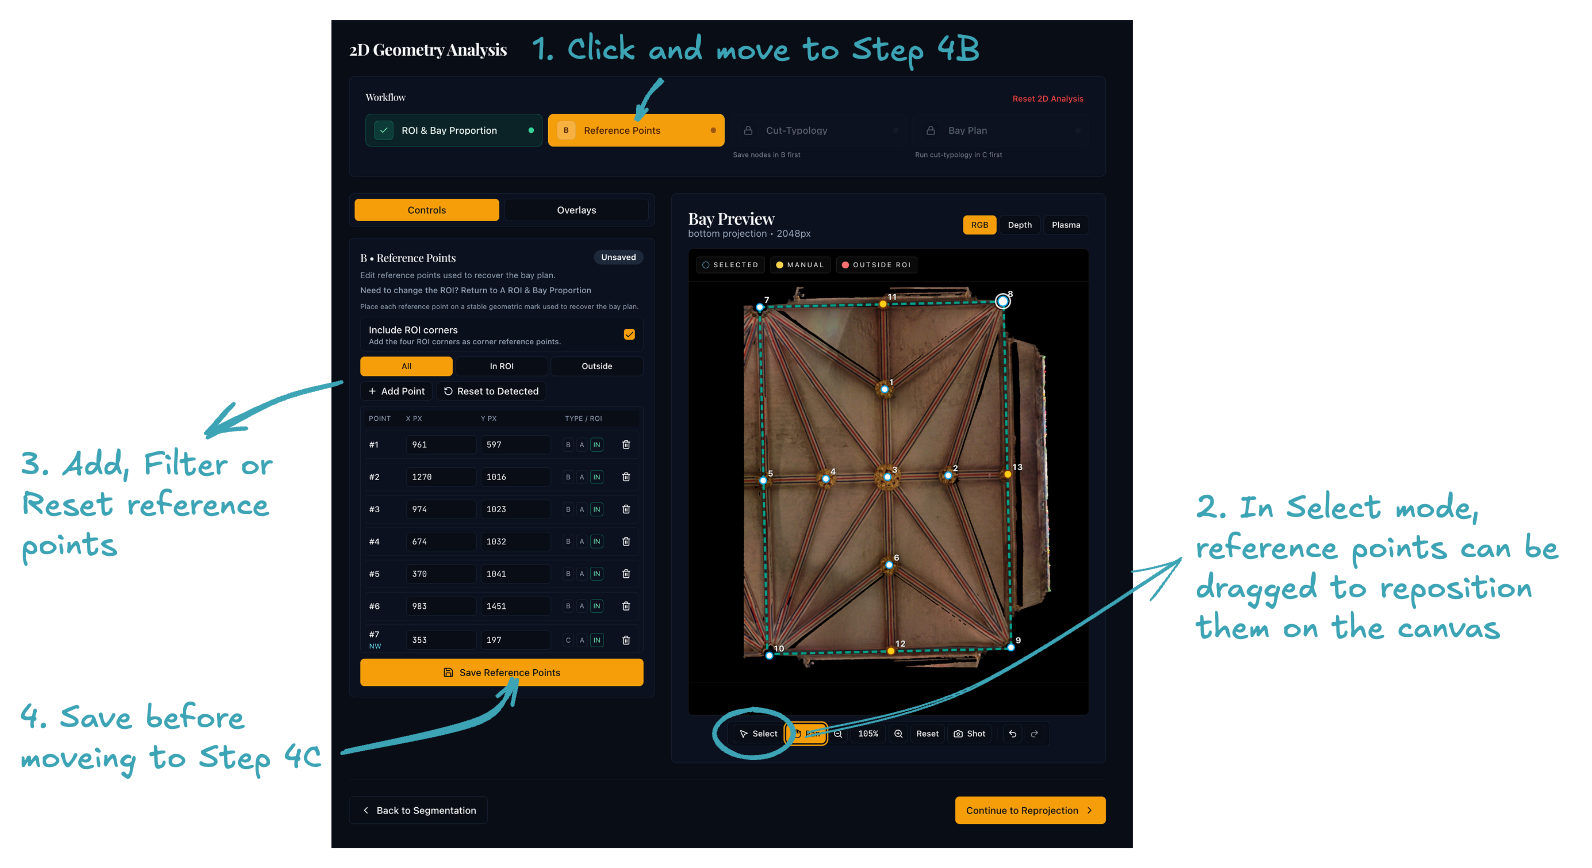
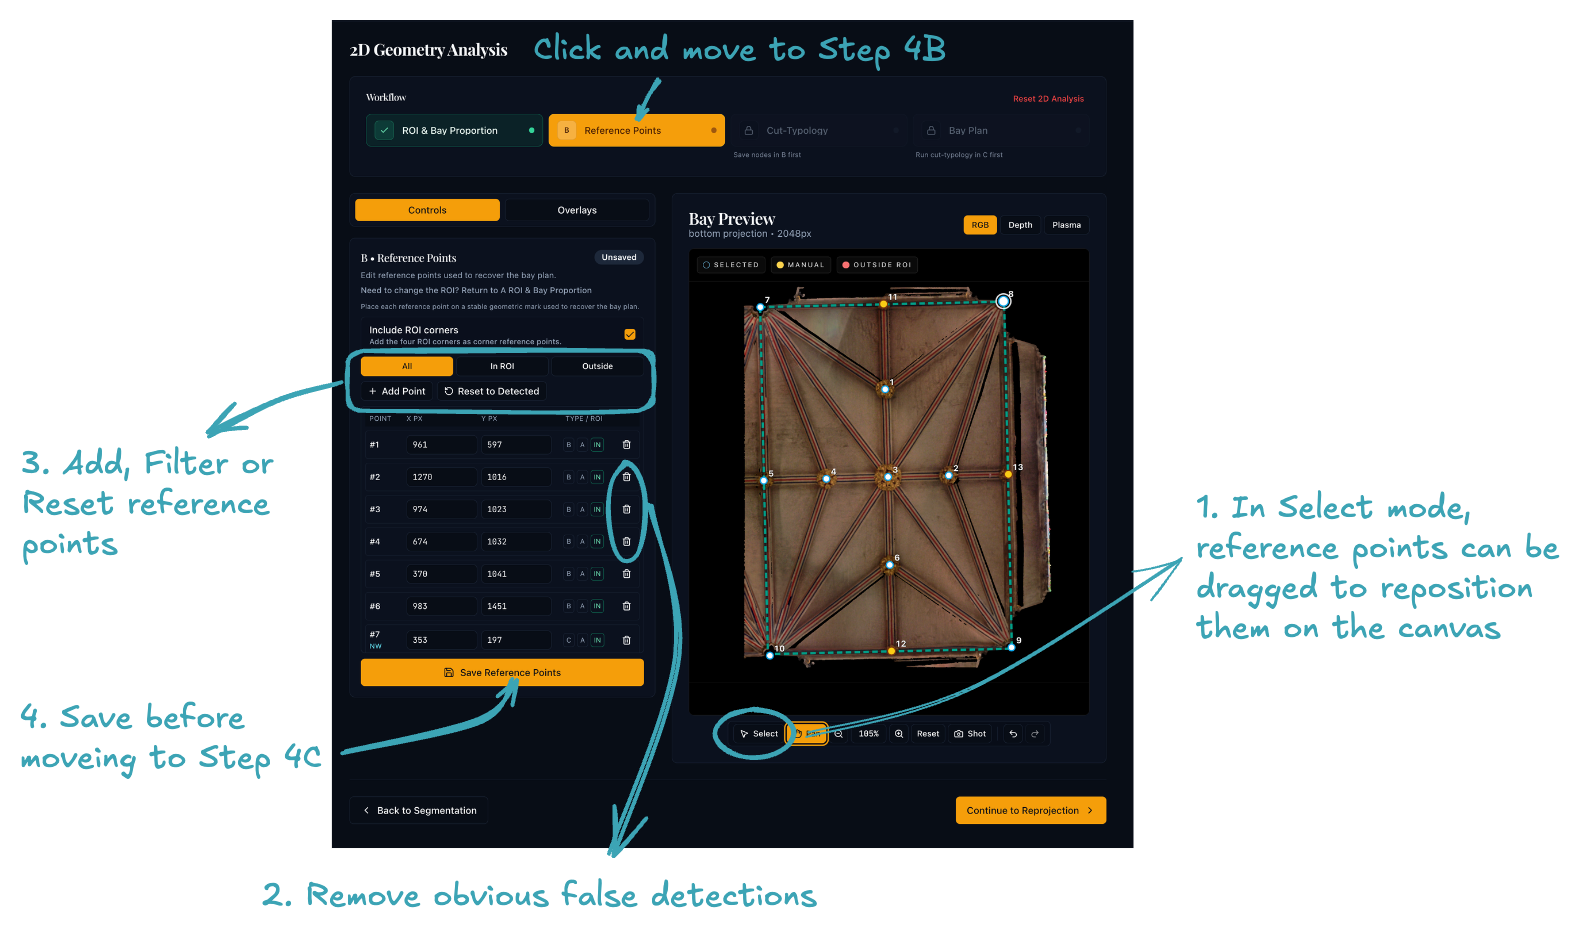
documentation-install&step4

diff --git a/docs/workflow/step-4/bay-plan-reconstruction.md b/docs/workflow/step-4/bay-plan-reconstruction.md
@@ -2,56 +2,15 @@
 
 ## Purpose
 
-This final Step 4 sub-stage reconstructs the **bay plan** from the ROI, reference points, matching results, and segmentation masks. The bay plan is the main 2D output that later gets reprojected into 3D.
+This final Step 4 sub-stage reconstructs the **bay plan** from the ROI, reference points, matching results, and segmentation masks.
 
-## What the application does
+## Workflow
 
-Reconstruction proceeds through a multi-phase pipeline:
+![Bay-Plan Reconstruction: workflow stepper (Bay-Plan active); left panel with reconstruction settings and score breakdown; canvas showing the reconstructed node-and-edge graph over the projection image.](../../images/step-4/step4d-bay-plan.png){ width="800" .center }
 
-### 1. Load reference rows
+### 1. Review the reconstruction settings
 
-The backend loads the saved node points from sub-stage 4B. Where a boss was successfully matched in sub-stage 4C, its **ideal** template position is used in preference to the raw centroid. Corner anchors are always included.
-
-### 2. Load the rib mask
-
-A grouped rib-segmentation mask is loaded from the project's segmentation data. This mask acts as evidence for whether a proposed edge actually follows visible rib material.
-
-### 3. Generate candidate edges
-
-Two reconstruction modes are available:
-
-**Angular-nearest candidates** (default)
-:   For each node, the algorithm looks for nearby neighbours in distinct directions. Each possible edge is then scored by how well a narrow corridor between the two nodes overlaps the rib mask.[^1]
-
-**Delaunay comparison**
-:   An alternative mode that builds a constrained Delaunay-style graph from the same node set.[^2] This is useful as a comparison view or when rib-mask evidence is weak.
-
-Both methods can contribute to the final candidate set, and the app also preserves key boundary connections.
-
-### 4. Select the candidate graph
-
-A greedy global selection resolves the candidate set into a final graph:
-
-1. **Boundary edges first** — mandatory boundary edges are added unconditionally.
-2. **Greedy pass** — remaining candidates are added in descending score order, subject to a configurable maximum node degree and optional planarity enforcement (no crossing edges).
-3. **Degree repair** — any node whose degree falls below the configured minimum receives additional edges from the remaining candidates.
-
-### 5. Score the graph
-
-The final bay plan is scored on four weighted components:
-
-| Component | Weight | Description |
-|-----------|--------|-------------|
-| Edge evidence | 55 % | Mean rib-mask overlap score of non-boundary edges |
-| Boundary coverage | 20 % | Proportion of mandatory boundary edges present |
-| Degree satisfaction | 15 % | Proportion of nodes within the degree bounds |
-| Mutual support | 10 % | Proportion of edges confirmed in both directions |
-
-### 6. Manual edge editing
-
-After the automatic reconstruction, you may add or remove individual edges manually. Manual edits are saved alongside the computed graph.
-
-## Parameters
+Start with the default settings. Tune the advanced parameters below only if the defaults do not produce satisfactory results. 
 
 | Parameter | Description |
 |-----------|-------------|
@@ -64,12 +23,32 @@ After the automatic reconstruction, you may add or remove individual edges manua
 | Boundary tolerance | (u, v) margin for classifying a node as lying on the ROI boundary |
 | Enforce planarity | Whether to reject edges that would cross existing selected edges |
 
-## What you do here
+### 2. Run reconstruction
 
-- Run the reconstruction and inspect the resulting graph on the canvas.
-- If the graph is too dense or too sparse, adjust the settings and run again.
-- Use the layer toggles to compare the graph against the underlying projection and masks.
-- Add missing edges or remove wrong ones manually before you continue.
+The backend loads the saved node points from sub-stage 4B (preferring ideal template positions from 4C where available) and the grouped rib-segmentation mask. It then:
+
+1. **Generates candidate edges** — for each node, finds nearby neighbours in distinct directions and scores each edge by rib-mask overlap.[^1] An alternative Delaunay mode is available when mask evidence is weak.[^2]
+2. **Selects the final graph** — adds boundary edges first, then greedily adds candidates in score order (subject to degree limits and optional planarity), and repairs any under-connected nodes.
+3. **Scores the result** on four weighted components:
+
+| Component | Weight | Description |
+|-----------|--------|-------------|
+| Edge evidence | 55 % | Mean rib-mask overlap score of non-boundary edges |
+| Boundary coverage | 20 % | Proportion of mandatory boundary edges present |
+| Degree satisfaction | 15 % | Proportion of nodes within the degree bounds |
+| Mutual support | 10 % | Proportion of edges confirmed in both directions |
+
+### 3. Inspect and edit
+
+- Compare the graph against the underlying projection and masks using the layer toggles.
+- Add missing edges or remove wrong ones manually. Manual edits are saved alongside the computed graph.
+
+If the graph has obvious errors, try the following before editing manually:
+
+- Lower **candidate min score** to recover missing edges in areas with weak rib-mask evidence.
+- Raise **max node degree** if key junctions are losing edges.
+- Lower **candidate max distance** if the graph connects nodes across the bay that should not be linked.
+- Switch **reconstruction mode** to `delaunay` for comparison — if it produces a cleaner graph, the rib-mask evidence may be too noisy for angular-nearest.
 
 [^1]: Related reference: Steger, C., "An Unbiased Detector of Curvilinear Structures", *IEEE Transactions on Pattern Analysis and Machine Intelligence* 20(2), 1998, 113–125.
 
@@ -77,9 +56,9 @@ After the automatic reconstruction, you may add or remove individual edges manua
 
 ## Why it matters
 
-The bay plan is the most significant output of the entire 2D analysis. It encodes the vault's rib network as a computationally tractable graph that Step 5 reprojects into three-dimensional space. Errors in the bay plan — missing ribs, false connections, or misplaced nodes — will propagate into the 3D geometry and affect all subsequent measurements.
+The bay plan is the main 2D output: Step 5 reprojects it into three-dimensional space. Errors here — missing ribs, false connections, misplaced nodes — propagate into all downstream 3D geometry.
 
-## Expected result
+## Before moving on
 
 Before leaving Step 4 you should have:
 

diff --git a/docs/workflow/step-4/cut-typology-matching.md b/docs/workflow/step-4/cut-typology-matching.md
@@ -11,32 +11,26 @@ Medieval vault designers set out rib plans by drawing construction lines through
 Vault Analyser tests several template families derived from this tradition:
 
 **Starcut (standard grid)**
-:   An *n*-by-*n* regular grid that divides the bay into equal fractions along both axes. A starcut with *n* = 3 divides each side into thirds; *n* = 6 divides into sixths. The grid intersections correspond to the fractional positions at which medieval designers placed tiercerons and lierne junctions. The application tests a configurable range of divisors (default *n* = 2 to *n* = 6).
+:   An *n*-by-*n* regular grid dividing the bay into equal fractions along both axes. Grid intersections correspond to the fractional positions at which medieval designers placed tiercerons and lierne junctions. The app tests divisors from *n* = 2 to *n* = 6 by default.
 
 **Inner circlecut**
-:   An extension of the starcut in which a circle with radius equal to the bay's longest side is drawn centred on the bay. The intersections between this circle, the bay's perpendicular bisectors, and lines connecting these intersections to the bay corners produce a set of keypoints that no longer correspond to neat fractional divisions. This variant captures the geometry of vaults designed with the *inner circle starcut* method.
+:   A circle with radius equal to the bay's longest side, drawn centred on the bay. Intersections between this circle, the bay's bisectors, and lines to the corners produce keypoints that do not correspond to simple fractions.
 
 **Outer circlecut**
-:   Similar to the inner circlecut, but the circle passes through all four corners of the bay (i.e. has a radius of half the bay diagonal). This produces a different set of construction-line intersections and fractional relationships, corresponding to the *outer circle starcut* method.
+:   Similar, but the circle passes through all four bay corners (radius = half diagonal), producing a different set of construction-line intersections.
 
 **Cross templates**
-:   Hybrid variants that combine the *x*-axis ratios from one family with the *y*-axis ratios from another (e.g. starcut *x* + circlecut inner *y*). These capture asymmetric designs where the longitudinal and transverse rib geometry follow different proportional systems.
+:   Hybrid variants combining *x*-axis ratios from one family with *y*-axis ratios from another (e.g. starcut *x* + circlecut inner *y*), capturing asymmetric designs.
 
 [^1]: For a detailed account of starcut geometry and its application in medieval vaulting see [Plans — Tracing the Past](https://www.tracingthepast.org.uk/2021/04/07/designing_plans/).
 
-## What the application does
+## Workflow
 
-When you run matching, the backend performs the following:
+![Cut-Typology Matching: workflow stepper (Cut-Typology active); left panel with match status, distribution, overlay toggles, advanced parameters, and Run matching / Open match table; bay preview with RGB/Depth/Plasma and rib overlay; bottom match table with filters and CSV download.](../../images/step-4/step4c-cut-typology.png){ width="800" .center }
 
-1. **Build template variants** — for each enabled family, generate keypoints in (u, v) unit space. Standard grids use `n`-by-`n` intersections; circle variants compute ray–circle intersections and construction-line crossings.
-2. **Extract ratio sets** — from each variant's keypoints, extract the unique *x*-ratios and *y*-ratios (the fractional positions along each axis).
-3. **Match bosses to ratios** — for every boss, find the nearest *x*-ratio and *y*-ratio. If both distances fall within the configured tolerance, the boss is counted as matched to that variant.
-4. **Rank variants** — variants are sorted by the number of matched bosses, with ties usually broken in favour of simpler templates.
-5. **Persist results** — the full matching payload is saved to `cut_typology_result.json` and a per-boss CSV to `boss_cut_typology_match.csv`.
+### 1. Review the matching settings
 
-For each matched boss the result includes an idealised template position. These ideal positions can then be preferred over raw centroids during reconstruction.
-
-## Parameters
+Start with the default settings. Tune the advanced parameters below only if the defaults do not produce satisfactory results. 
 
 | Parameter | Default | Description |
 |-----------|---------|-------------|
@@ -45,24 +39,43 @@ For each matched boss the result includes an idealised template position. These 
 | Include starcut | On | Enable standard *n*-by-*n* grid variants |
 | Include circlecut inner | On | Enable the inner circle variant |
 | Include circlecut outer | On | Enable the outer circle variant |
-| Allow cross templates | On | Allow *x*/*y* ratios from different families |
+| Include cross templates | On | Allow *x*/*y* ratios from different families |
 | Ratio tolerance | 0.01 | Maximum absolute ratio distance for a coordinate to count as matched |
 
-## What you do here
+### 2. Run matching
 
-- Review the matching settings if you need to narrow or widen the search.
-- Run the matching and inspect the ranked result.
+When you run matching, the backend:
+
+1. **Builds template variants** — generates keypoints in (u, v) unit space for each enabled family.
+2. **Extracts ratio sets** — collects the unique *x*-ratios and *y*-ratios from each variant's keypoints.
+3. **Matches bosses to ratios** — for every boss, finds the nearest *x*- and *y*-ratio. If both distances fall within the configured tolerance, the boss counts as matched.
+4. **Ranks variants** — sorts by the number of matched bosses; ties are broken in favour of the lowest divisor *n*.
+5. **Persists results** — saves the matching payload to `cut_typology_result.json` and a per-boss CSV to `boss_cut_typology_match.csv`.
+
+Each matched boss receives an idealised template position that can be preferred over the raw centroid during reconstruction.
+
+### 3. Inspect the result
+
 - Compare the template overlays against the boss positions on the canvas.
 - Continue only when the leading result looks plausible against the visible geometry.
+
+If no template produces a believable match, try the following before moving on:
+
+- Widen the **ratio tolerance** slightly (e.g. from 0.01 to 0.02).
+- Enable **Include cross templates** if it is off.
+- Return to sub-stage 4B to remove any spurious reference points that may be pulling the match off.
+- Return to sub-stage 4A to check the bay proportion — a significantly wrong proportion will misplace all template ratios.
 
 ## Why it matters
 
 The matching result directly informs reconstruction. A good match can stabilise the bay plan; a bad match can push the reconstruction toward the wrong geometry.
 
-## Expected result
+## Before moving on
 
-Before continuing to sub-stage 4D you should have:
+You should have:
 
 - a completed matching result with a believable leading template
-- boss placements that broadly agree with the chosen overlay
-- enough confidence to proceed to reconstruction
+- the majority of bosses matched to that template (as a rough guide, aim for ≥ 80 % of bosses matched)
+- boss placements that broadly agree with the template overlay on the canvas
+
+Click **Bay-Plan Reconstruction** on the workflow stepper bar at the top to continue to sub-stage 4D.

diff --git a/docs/workflow/step-4/reference-points.md b/docs/workflow/step-4/reference-points.md
@@ -2,33 +2,23 @@
 
 ## Purpose
 
-This sub-stage prepares the **reference points** used in later geometry analysis. In most cases these are boss locations plus the ROI corners or other boundary anchors.
-
-Accurate reference points matter because the later matching and reconstruction stages use them as the geometric skeleton for the bay.
-
-## What you are looking for
-
-In this step, you are identifying the most useful geometric guide points in the bay.
-
-These usually include:
-
-- **Boss points**: visible bosses or rib-junction points inside the ROI
-- **Corner anchors**: the ROI corners, used as boundary reference points for the bay
-
-The goal is not to place as many points as possible. The goal is to keep the points that best represent the bay geometry.
+This sub-stage prepares the **reference points** — boss locations and corner anchors — that later matching and reconstruction stages use as the geometric skeleton for the bay. The goal is to keep the points that best represent the bay geometry, not to place as many as possible.
 
 ## Workflow
 
 ![Screenshot showing Step 4B interface with reference points over the ROI and projection image. Visible points mark bosses and ROI corners. Layers panel is open for toggling overlays.](../../images/step-4/step4b-reference.png){ width="800" .center }
 
 1. Review the detected boss points on the canvas.
+      - ROI corners are included as default. Untick the option, if it is not the case.
+      - The other reference points are identified from the segmented "bosses" from STEP 3.
 2. Remove obvious false detections.
 3. Add or reposition points where an important boss has been missed or misplaced.
-4. Decide whether the ROI corners should be included as boundary anchors.
-5. Save the point set before moving on.
+4. Save the point set before moving on.
 
-## What to check before moving on
+## Before moving on
 
 - The main bosses inside the ROI are represented.
 - Spurious points outside the bay have been removed.
 - Corner anchors are included only if they help the interpretation.
+
+Click **Cut-Typology Matching** on the workflow stepper bar at the top to continue to sub-stage 4C.

diff --git a/docs/workflow/step-4/roi-and-bay-proportion.md b/docs/workflow/step-4/roi-and-bay-proportion.md
@@ -4,9 +4,9 @@
 
 Define the **Region of Interest (ROI)**, a rotatable rectangle that isolates one vault bay on the projection image, and estimate the bay proportion used by later sub-stages.
 
-![Step 4A interface showing the ROI positioned over a vault bay, with vault ratio and ratio suggestions on the left](../../images/step-4/step4a-roi-bay-proportion.png){ width="600" .center }
-
 ## Workflow
+
+![Step 4A interface showing the ROI positioned over a vault bay, with vault ratio and ratio suggestions on the left](../../images/step-4/step4a-roi-bay-proportion.png){ width="800" .center }
 
 ### 1. Position the ROI
 

diff --git a/zdocs/bugs.md b/zdocs/bugs.md
@@ -3,7 +3,7 @@ Segmentation
 [] segmentation reset button?
 
 2d Geometry
-[] Suggested ROI - change the content on pop up alert window. currently it is n located inside roi, change it to xxxxx is completed, it is not garanteed that xxx, use xxxx
+[] Suggested ROI - change the content on pop up alert window. currently it is n located inside roi, change it to xxxxx is completed, it is not garanteed that xxx, use xxxx, to the right bottom corner maybe?
 [] Suggested ROI - add Beta label
 [] Add a generate report if got time
 [] OVerlay ribs, boss stone not working on "Bay Plan"